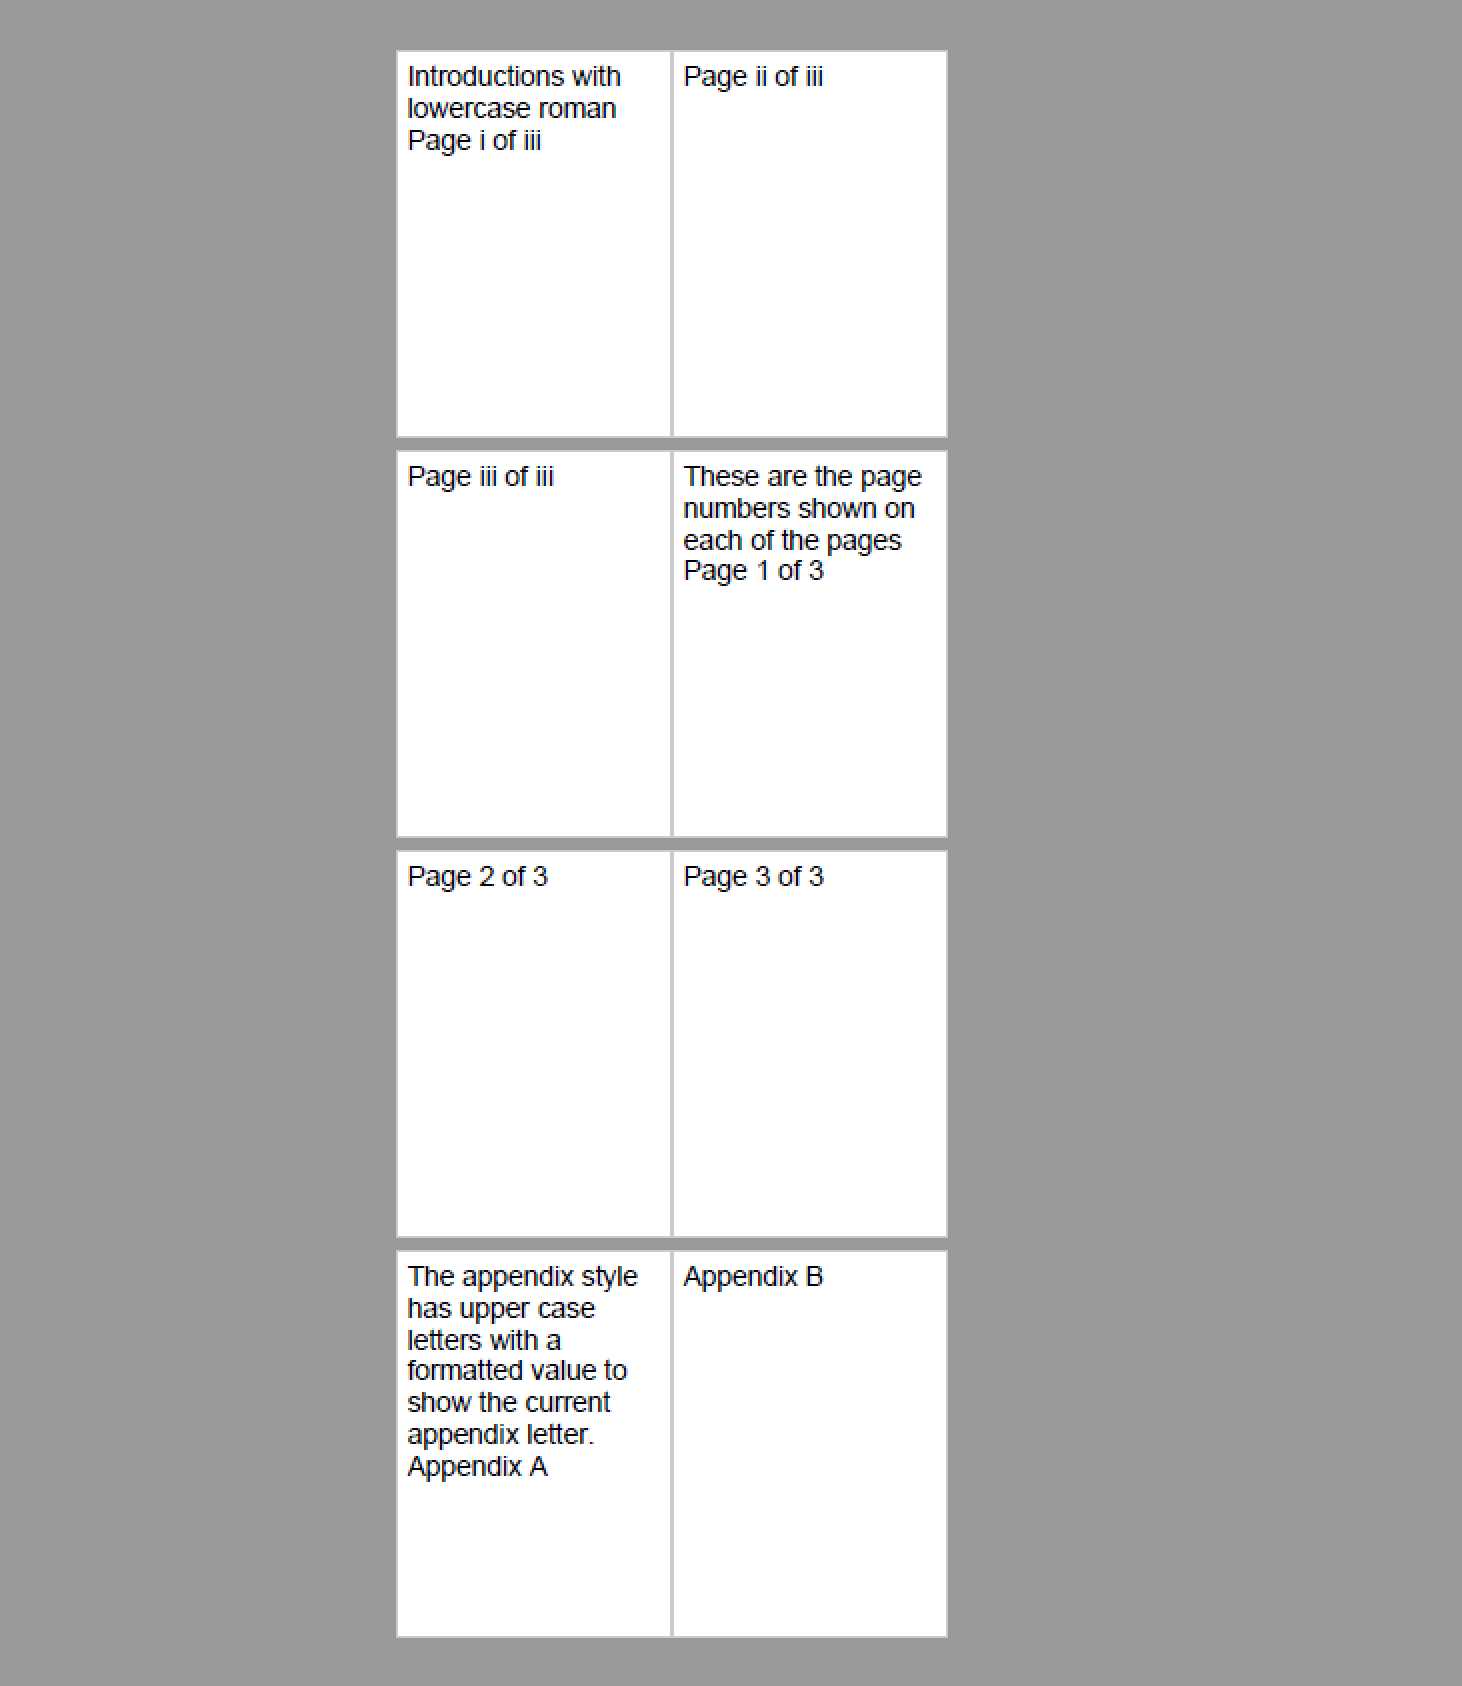
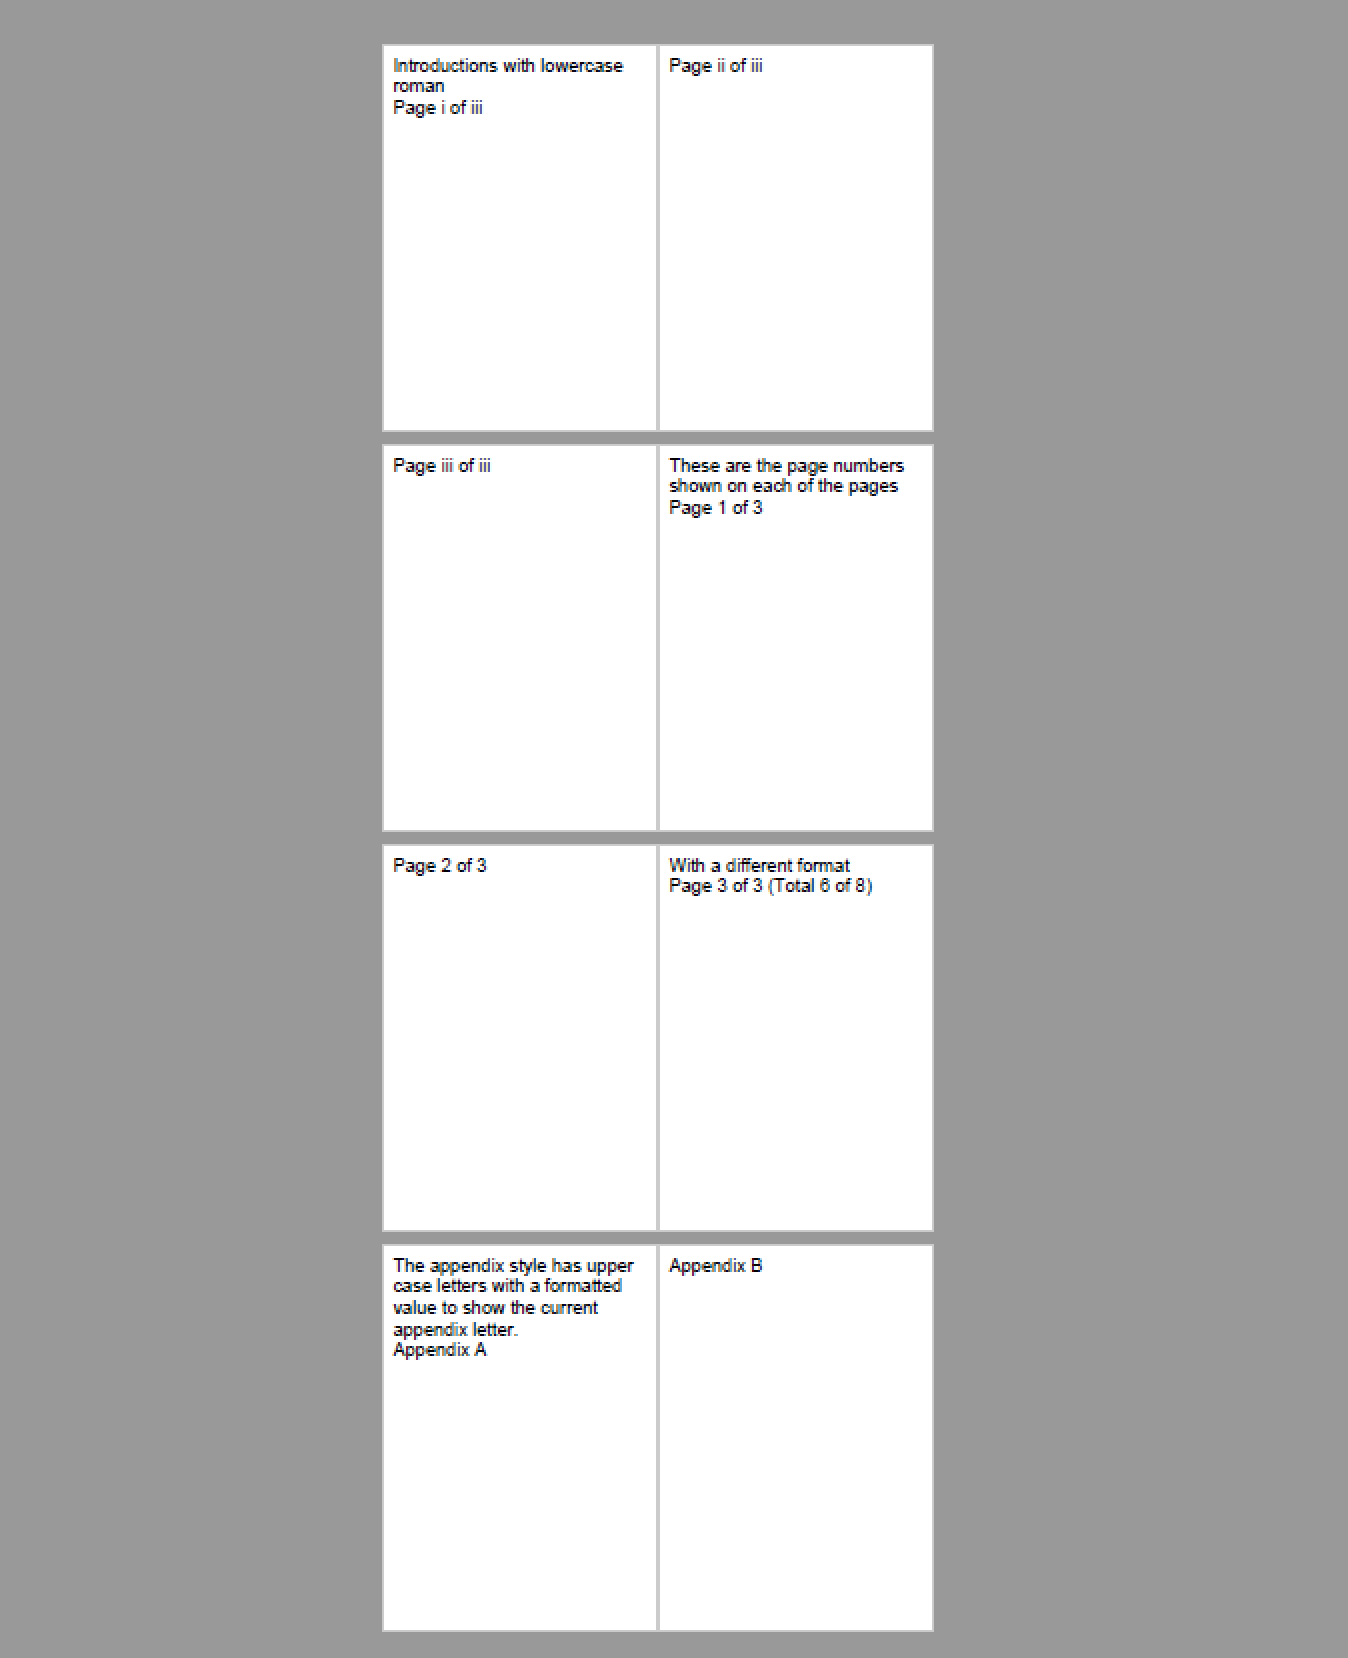
Documentation updates to Page Number

Changed region(s): [[0.2493, 0.0, 0.7166, 0.9843]]

diff --git a/docs/document_pagenumbers.rst b/docs/document_pagenumbers.rst
@@ -172,6 +172,21 @@ The number styles will be automatically used with any format string.
 .. image:: images/documentpagenumbers2.png
 
 
+Page count hints
+================
+
+During layout scryber has no ability to know the group or total page counts. However, it needs to layout the content 
+in order to put everything on the page.
+
+Often this is not an issue as page numbers tend to be isolated. However when mixed inline with other text it can cause a flow inconsistency.
+
+As such scryber uses standard hint values for the total number of pages, and the number of pages in a group. During the 
+layout phase (see: :doc:`document_lifecycle`) scryber will use 10 and 100 for the group and total page counts. as hints for layout.
+These will be replaced at the end of layout, with the actual grouop and total values, for rendering.
+
+To improve layout, it's possible to set the group-count-hint and total-count-hint in the Page styles so they will be used to improve the text flow.
+
+
 Page of a different component
 ==============================
 
